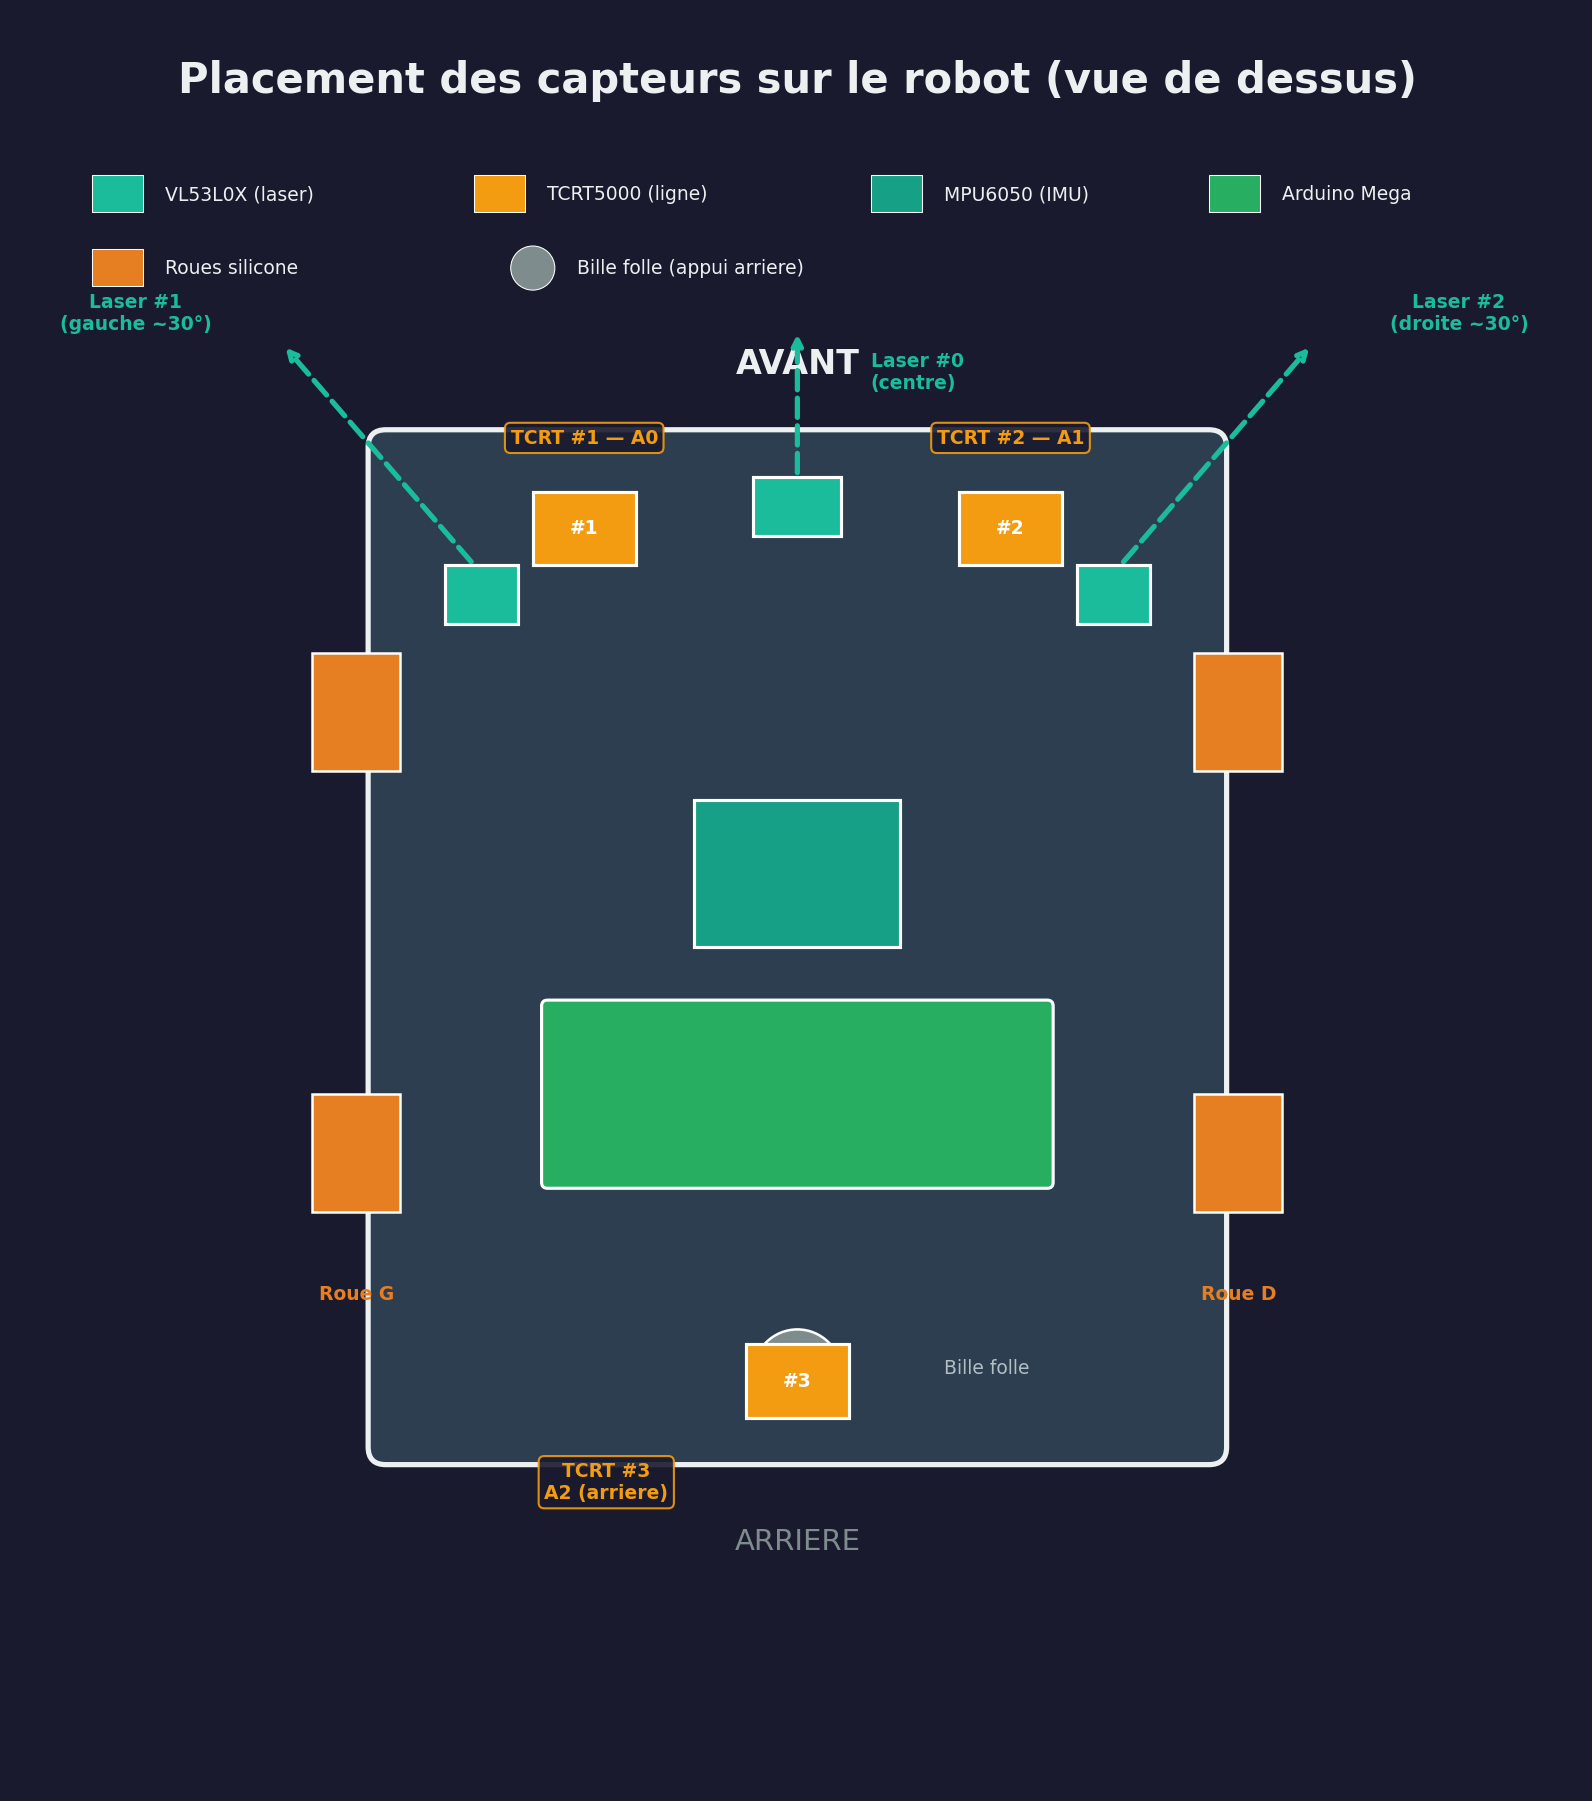
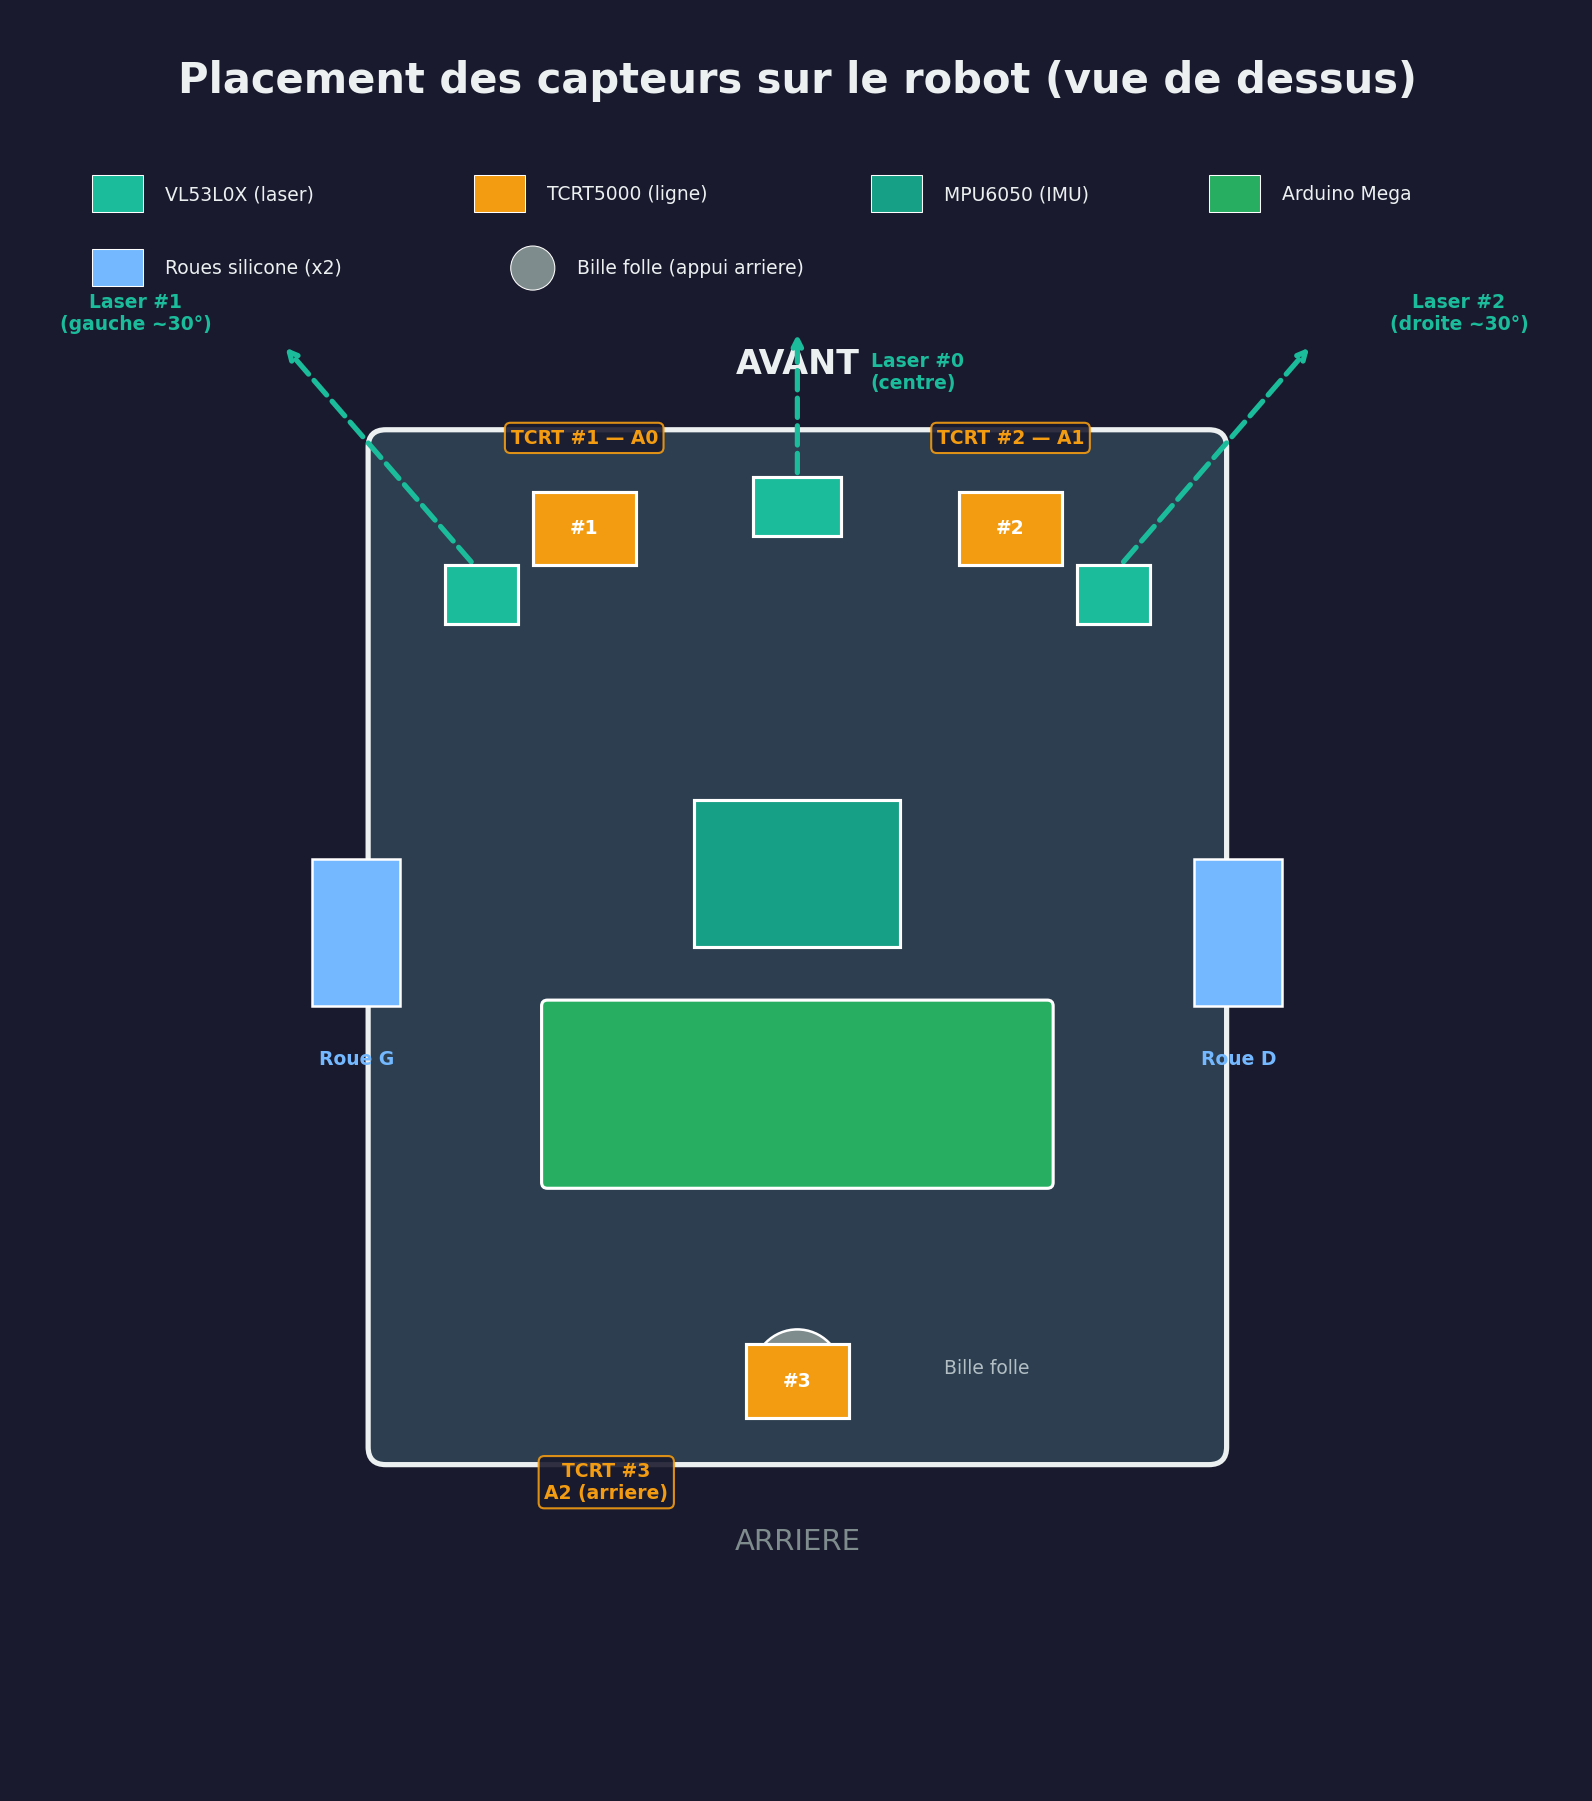
Fix robot diagram: 2 wheels only, blue color
Robot has 2 wheels (left/right) + 1 caster ball, not 4 wheels.
Changed wheel color to light blue to distinguish from motor boxes.

diff --git a/docs/generate_diagrams.py b/docs/generate_diagrams.py
@@ -302,8 +302,8 @@ def generate_capteurs():
         ax.text(lx + 5, ly + 0.2, lab, color=TEXT_COLOR, fontsize=9, va='center', fontfamily='sans-serif')
 
     ly2 = 100
-    ax.add_patch(patches.Rectangle((2, ly2 - 1), 3.5, 2.5, facecolor='#e67e22', edgecolor='white', linewidth=0.5))
-    ax.text(7, ly2 + 0.2, "Roues silicone", color=TEXT_COLOR, fontsize=9, va='center', fontfamily='sans-serif')
+    ax.add_patch(patches.Rectangle((2, ly2 - 1), 3.5, 2.5, facecolor='#74b9ff', edgecolor='white', linewidth=0.5))
+    ax.text(7, ly2 + 0.2, "Roues silicone (x2)", color=TEXT_COLOR, fontsize=9, va='center', fontfamily='sans-serif')
     ax.add_patch(patches.Circle((32, ly2 + 0.2), 1.5, facecolor='#7f8c8d', edgecolor='white', linewidth=0.5))
     ax.text(35, ly2 + 0.2, "Bille folle (appui arriere)", color=TEXT_COLOR, fontsize=9, va='center', fontfamily='sans-serif')
 
@@ -316,13 +316,13 @@ def generate_capteurs():
                             facecolor='#2c3e50', edgecolor='#ecf0f1', linewidth=2.5)
     ax.add_patch(robot)
 
-    # Roues (4 blocs bien dans le corps, avec labels en dessous)
-    for wy in [40, 70]:
-        ax.add_patch(patches.Rectangle((17, wy - 4), 6, 8, facecolor='#e67e22', edgecolor='white', linewidth=1.2))
-        ax.add_patch(patches.Rectangle((77, wy - 4), 6, 8, facecolor='#e67e22', edgecolor='white', linewidth=1.2))
+    # Roues (2 seulement : une gauche, une droite, au milieu du chassis)
+    WHEEL_COLOR = '#74b9ff'
+    ax.add_patch(patches.Rectangle((17, 50), 6, 10, facecolor=WHEEL_COLOR, edgecolor='white', linewidth=1.2))
+    ax.add_patch(patches.Rectangle((77, 50), 6, 10, facecolor=WHEEL_COLOR, edgecolor='white', linewidth=1.2))
 
-    ax.text(20, 30, "Roue G", ha='center', color='#e67e22', fontsize=9, fontweight='bold', fontfamily='sans-serif')
-    ax.text(80, 30, "Roue D", ha='center', color='#e67e22', fontsize=9, fontweight='bold', fontfamily='sans-serif')
+    ax.text(20, 46, "Roue G", ha='center', color=WHEEL_COLOR, fontsize=9, fontweight='bold', fontfamily='sans-serif')
+    ax.text(80, 46, "Roue D", ha='center', color=WHEEL_COLOR, fontsize=9, fontweight='bold', fontfamily='sans-serif')
 
     # Bille folle
     ax.add_patch(patches.Circle((50, 25), 3, facecolor='#7f8c8d', edgecolor='white', linewidth=1.2))
